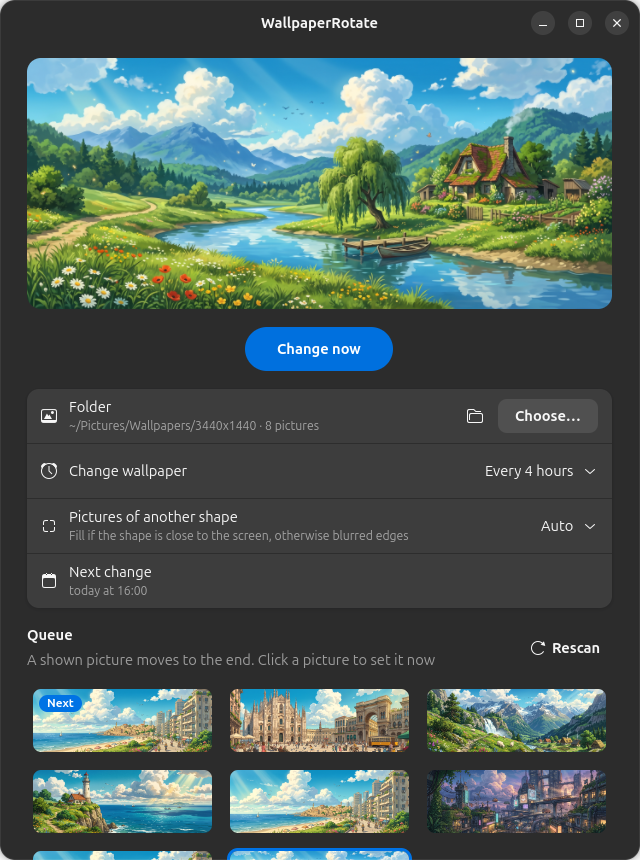
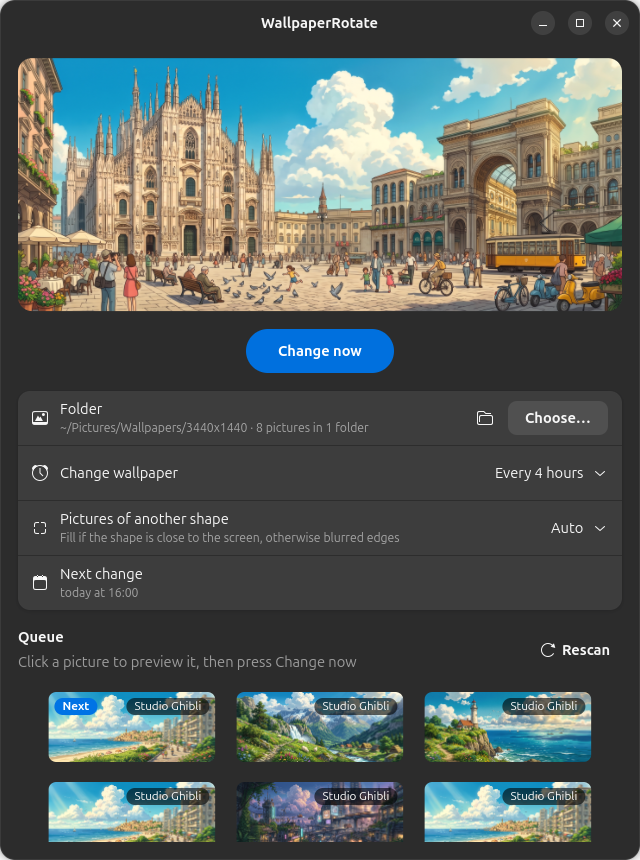
Adaptive layout: everything always fits
- The preview keeps the screen's aspect ratio and shrinks with the window
- Only the queue scrolls; thumbnails keep the screen's aspect ratio too
- Wide windows switch to two columns: preview and settings | queue
- Minimum window size so no element is ever cut off

diff --git a/wallpaper-rotate-app.py b/wallpaper-rotate-app.py
@@ -19,7 +19,9 @@ import gi
 gi.require_version("Gtk", "4.0")
 gi.require_version("Adw", "1")
 gi.require_version("GdkPixbuf", "2.0")
-from gi.repository import Adw, Gdk, GdkPixbuf, Gio, GLib, Gtk  # noqa: E402
+gi.require_version("Gsk", "4.0")
+gi.require_version("Graphene", "1.0")
+from gi.repository import Adw, Gdk, GdkPixbuf, Gio, GLib, Graphene, Gsk, Gtk  # noqa: E402
 
 APP_ID = "io.github.pelkons.WallpaperRotate"
 APP_NAME = "WallpaperRotate"
@@ -246,10 +248,43 @@ def to_texture(data):
     return Gdk.MemoryTexture.new(w, h, fmt, pixels, stride)
 
 
+class AspectBin(Gtk.Widget):
+    """Shows its child at a fixed aspect ratio: as wide as the space allows,
+    shrinking (down to min_height) when the window gets short."""
+
+    def __init__(self, child, ratio, min_height, natural_width):
+        super().__init__()
+        self.ratio, self.min_height, self.natural_width = ratio, min_height, natural_width
+        self.child = child
+        child.set_parent(self)
+
+    def do_dispose(self):
+        if self.child:
+            self.child.unparent()
+            self.child = None
+
+    def do_get_request_mode(self):
+        return Gtk.SizeRequestMode.HEIGHT_FOR_WIDTH
+
+    def do_measure(self, orientation, for_size):
+        self.child.measure(orientation, -1)
+        if orientation == Gtk.Orientation.HORIZONTAL:
+            return round(self.min_height * self.ratio), self.natural_width, -1, -1
+        width = for_size if for_size > 0 else self.natural_width
+        return self.min_height, max(self.min_height, round(width / self.ratio)), -1, -1
+
+    def do_size_allocate(self, width, height, _baseline):
+        w = min(width, height * self.ratio)
+        h = w / self.ratio
+        where = Graphene.Point().init((width - w) / 2, (height - h) / 2)
+        self.child.allocate(round(w), round(h), -1, Gsk.Transform.new().translate(where))
+
+
 class Window(Adw.ApplicationWindow):
     def __init__(self, app):
         super().__init__(application=app, title=APP_NAME)
         self.set_default_size(640, 860)
+        self.set_size_request(480, 700)
         self.pool = ThreadPoolExecutor(max_workers=4)
         self.bg = Gio.Settings.new("org.gnome.desktop.background")
         self.folder = read_dir()
@@ -269,19 +304,23 @@ class Window(Adw.ApplicationWindow):
         view.set_content(self.toasts)
         self.set_content(view)
 
-        scroller = Gtk.ScrolledWindow(hscrollbar_policy=Gtk.PolicyType.NEVER)
-        clamp = Adw.Clamp(maximum_size=720)
-        box = Gtk.Box(orientation=Gtk.Orientation.VERTICAL, spacing=18,
-                      margin_top=12, margin_bottom=24, margin_start=18, margin_end=18)
-        clamp.set_child(box)
-        scroller.set_child(clamp)
-        self.toasts.set_child(scroller)
+        # Everything always fits: the preview shrinks with the window and only the
+        # queue scrolls. Wide windows get two columns: preview and settings | queue.
+        layout = Gtk.Box(orientation=Gtk.Orientation.VERTICAL, spacing=18,
+                         margin_top=12, margin_bottom=18, margin_start=18, margin_end=18)
+        box = Gtk.Box(orientation=Gtk.Orientation.VERTICAL, spacing=18, valign=Gtk.Align.START)
+        layout.append(box)
+        self.toasts.set_child(layout)
+
+        wide = Adw.Breakpoint.new(Adw.BreakpointCondition.parse("min-width: 980sp"))
+        wide.add_setter(layout, "orientation", Gtk.Orientation.HORIZONTAL)
+        wide.add_setter(layout, "spacing", 24)
+        self.add_breakpoint(wide)
 
         # Current wallpaper preview
         self.preview = Gtk.Picture(content_fit=Gtk.ContentFit.COVER, can_shrink=True)
         self.preview.add_css_class("preview")
         self.preview.set_overflow(Gtk.Overflow.HIDDEN)
-        self.preview.set_size_request(-1, round(600 / self.ratio))
         preview_box = Gtk.Overlay(child=self.preview)
         self.preview_note = Gtk.Label(halign=Gtk.Align.START, valign=Gtk.Align.START,
                                       ellipsize=3, visible=False)
@@ -294,7 +333,7 @@ class Window(Adw.ApplicationWindow):
         self.cancel_btn.add_css_class("osd")
         self.cancel_btn.connect("clicked", lambda *_: self.clear_selection())
         preview_box.add_overlay(self.cancel_btn)
-        box.append(preview_box)
+        box.append(AspectBin(preview_box, self.ratio, min_height=90, natural_width=560))
 
         keys = Gtk.EventControllerKey()
         keys.connect("key-pressed", self.on_key)
@@ -349,21 +388,26 @@ class Window(Adw.ApplicationWindow):
         # Thumbnails
         self.thumbs_group = Adw.PreferencesGroup(
             title="Queue",
-            description="Pictures from the folder and all its subfolders. A shown picture "
-                        "moves to the end. Click a picture to preview it, then press Change now")
+            description="Click a picture to preview it, then press Change now")
         rescan_btn = Gtk.Button(valign=Gtk.Align.CENTER, tooltip_text="Read the folder again",
                                 child=Adw.ButtonContent(icon_name="view-refresh-symbolic",
                                                         label="Rescan"))
         rescan_btn.add_css_class("flat")
         rescan_btn.connect("clicked", self.on_rescan)
         self.thumbs_group.set_header_suffix(rescan_btn)
-        box.append(self.thumbs_group)
+        self.thumbs_group.set_vexpand(True)
+        self.thumbs_group.set_hexpand(True)
+        layout.append(self.thumbs_group)
         self.flow = Gtk.FlowBox(selection_mode=Gtk.SelectionMode.NONE, homogeneous=True,
-                                min_children_per_line=3, max_children_per_line=4,
-                                row_spacing=6, column_spacing=6)
+                                min_children_per_line=2, max_children_per_line=6,
+                                row_spacing=6, column_spacing=6, valign=Gtk.Align.START,
+                                halign=Gtk.Align.CENTER)
         self.empty = Gtk.Label(label="No pictures in this folder (jpg, png, webp)", margin_top=12)
         self.empty.add_css_class("dim-label")
-        self.thumbs_group.add(self.flow)
+        self.queue_scroll = Gtk.ScrolledWindow(child=self.flow, vexpand=True,
+                                               hscrollbar_policy=Gtk.PolicyType.NEVER,
+                                               min_content_height=100)
+        self.thumbs_group.add(self.queue_scroll)
         self.thumbs_group.add(self.empty)
 
         self.bg.connect("changed::picture-uri", lambda *_: self.on_wallpaper_changed())
@@ -423,15 +467,13 @@ class Window(Adw.ApplicationWindow):
         self.thumb_buttons.clear()
         self.current_badges.clear()
         self.empty.set_visible(not queue)
-        self.flow.set_visible(bool(queue))
+        self.queue_scroll.set_visible(bool(queue))
 
-        tw = 150
-        th = round(tw / self.ratio)
+        tw = 168
         fit_label = "Black bars" if read_fit_mode() == "fit" else "Blurred edges"
         for i, item in enumerate(queue):
             path = item["path"]
             pic = Gtk.Picture(content_fit=Gtk.ContentFit.COVER, can_shrink=True)
-            pic.set_size_request(tw, th)
             pic.add_css_class("thumb")
             pic.set_overflow(Gtk.Overflow.HIDDEN)
             overlay = Gtk.Overlay(child=pic)
@@ -465,7 +507,8 @@ class Window(Adw.ApplicationWindow):
                 where.add_css_class("badge")
                 where.add_css_class("badge-info")
                 overlay.add_overlay(where)
-            btn = Gtk.Button(child=overlay, tooltip_text="\n".join(tip))
+            btn = Gtk.Button(child=AspectBin(overlay, self.ratio, min_height=round(tw / self.ratio), natural_width=tw),
+                             tooltip_text="\n".join(tip))
             btn.add_css_class("flat")
             btn.add_css_class("thumb-button")
             on_screen = self.badge("Current", "badge-current")

diff --git a/README.md b/README.md
@@ -17,7 +17,10 @@ Scheduled wallpaper rotation for GNOME, with a fair show queue and a small app t
   - folder, interval and fit mode settings, time of the next change;
   - thumbnails in queue order with **Next** and **New** badges, the subfolder name, plus **Cropped**, **Blurred edges** / **Black bars** and **Low res** badges that show how each picture will look on your screen; the current wallpaper is outlined and marked **Current**;
   - click a thumbnail to see it in the large preview exactly as it will look on your screen, then press **Change now** to set it (Esc or × goes back);
-  - a **Rescan** button.
+  - a **Rescan** button;
+  - an adaptive layout: everything always fits, the preview shrinks with the window and only the queue scrolls; wide windows get two columns.
+
+![Wide window](docs/screenshot-wide.png)
 - Formats: jpg, jpeg, png, webp. The picture is set for both the light and the dark style.
 - If the computer was off when a change was due, the wallpaper changes right after it starts.
 
